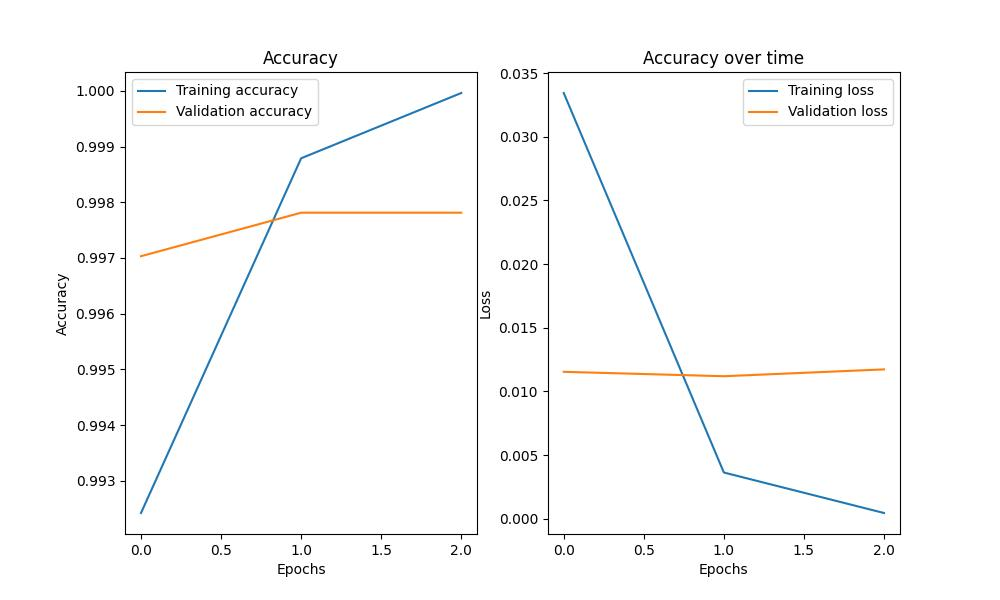
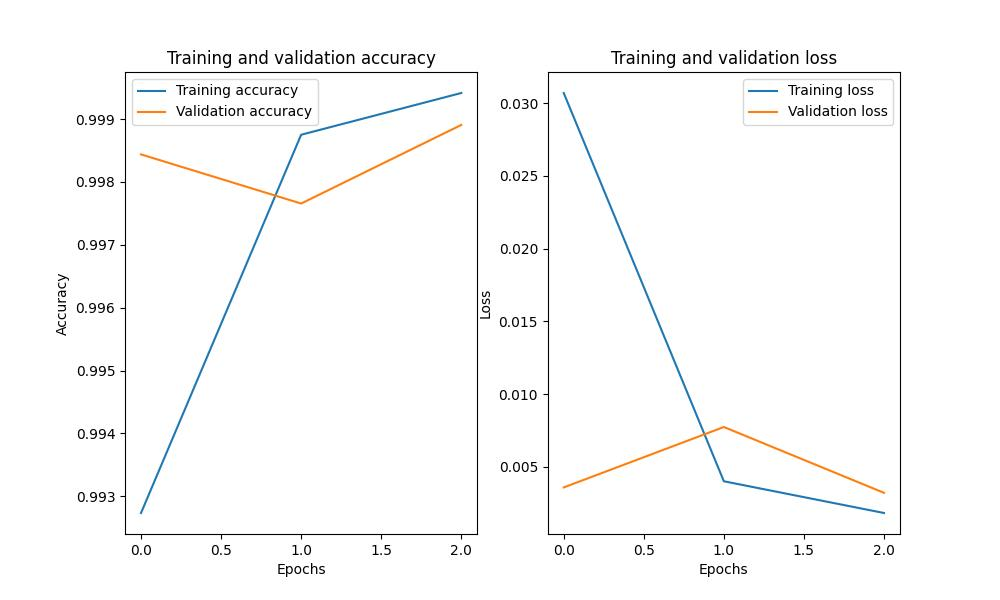
refactor: inception model

diff --git a/surface_crack_detection/models/inception.py b/surface_crack_detection/models/inception.py
@@ -25,7 +25,8 @@ load_weights_file = 'surface_crack_detection/inception/inception_v3_weights_tf_d
 
 # using the inceptionV3 architecture
 base_model = tf.keras.applications.inception_v3.InceptionV3(
-    include_top=False, input_shape=(227, 227, 3), weights=load_weights_file)
+    include_top=False, input_shape=(227, 227, 3), weights=None)
+base_model.load_weights(load_weights_file)
 
 # using this class at the end of an epoch
 class myCallback(tf.keras.callbacks.Callback):
@@ -63,6 +64,8 @@ model.summary()
 history = model.fit(train_data, validation_data=valid_data,
                     epochs=7, verbose=1, callbacks=[callbacks])
 
+history = history.history
+
 # pickle the history to file
 with open('surface_crack_detection/models/historys/inception_model_history', 'wb',) as f:
     pickle.dump(history, f)
@@ -71,17 +74,17 @@ with open('surface_crack_detection/models/historys/inception_model_history', 'wb
 model.save('surface_crack_detection/models/trained/inception_model.h5')
 
 # curves
-acc = history.history['accuracy']
-val_acc = history.history['val_accuracy']
-loss = history.history['loss']
-val_loss = history.history['val_loss']
+acc = history['accuracy']
+val_acc = history['val_accuracy']
+loss = history['loss']
+val_loss = history['val_loss']
 
 plt.figure(figsize=(10, 6))
 
 plt.subplot(1, 2, 1)
 plt.plot(acc)
 plt.plot(val_acc)
-plt.title('Accuracy')
+plt.title('Training and validation accuracy')
 plt.xlabel('Epochs')
 plt.ylabel('Accuracy')
 plt.legend(['Training accuracy', 'Validation accuracy'])
@@ -89,7 +92,7 @@ plt.legend(['Training accuracy', 'Validation accuracy'])
 plt.subplot(1, 2, 2)
 plt.plot(loss)
 plt.plot(val_loss)
-plt.title('Accuracy over time')
+plt.title('Training and validation loss')
 plt.xlabel('Epochs')
 plt.ylabel('Loss')
 plt.legend(['Training loss', 'Validation loss'])
